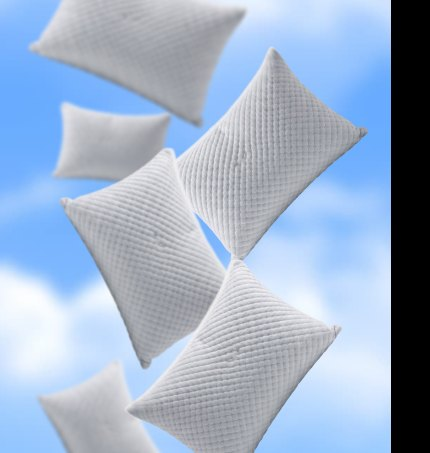
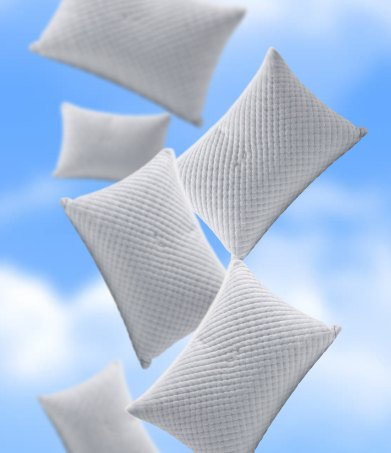
Add files via upload

diff --git a/src/components/Blocks.jsx b/src/components/Blocks.jsx
@@ -38,7 +38,7 @@ export function SummerDealsSlider() {
   return (
     <section style={{ position: 'relative', overflow: 'hidden', paddingBottom: 34, marginTop: -1 }}>
       <style>{`.fns-scroll{scrollbar-width:none;-ms-overflow-style:none}.fns-scroll::-webkit-scrollbar{display:none}`}</style>
-      <div aria-hidden="true" style={{ position: 'absolute', top: 0, left: 0, right: 0, height: bgH, backgroundImage: `url(${IMG.heroBg})`, backgroundSize: 'cover', backgroundPosition: 'top center' }} />
+      <div aria-hidden="true" style={{ position: 'absolute', top: 0, left: 0, right: 0, height: bgH, backgroundImage: `url(${IMG.sliderBg})`, backgroundSize: 'cover', backgroundPosition: 'center' }} />
       <div style={{ position: 'relative', maxWidth: 1050, margin: '0 auto', padding: isMobile ? '34px 20px 0' : '48px 40px 0' }}>
         <h2 style={{ fontFamily: FONT_DISPLAY, fontSize: isMobile ? 28 : 34, color: c.navy }}>Summer <span style={{ fontFamily: FONT_SUB, fontWeight: 400 }}>Deals</span></h2>
         <div className="fns-scroll" style={{ display: 'flex', gap: 16, overflowX: 'auto', padding: '24px 4px 8px', scrollSnapType: 'x mandatory' }}>
@@ -46,7 +46,7 @@ export function SummerDealsSlider() {
             const p = getPrice(b, isCA);
             const cm = isCA ? b.compareAt.cad : b.compareAt.usd;
             return (
-              <a key={b.id} href="/product/signature-cold-pillow" style={{ textDecoration: 'none', scrollSnapAlign: 'center', flex: isMobile ? '0 0 78%' : '0 0 300px', borderRadius: 22, overflow: 'hidden', boxShadow: '0 14px 30px rgba(32,27,93,.18)', background: '#fff' }}>
+              <a key={b.id} href="/product/signature-cold-pillow" style={{ textDecoration: 'none', scrollSnapAlign: 'center', flex: isMobile ? '0 0 78%' : '0 0 300px', borderRadius: 22, overflow: 'hidden', boxShadow: '0 6px 14px rgba(32,27,93,.22)', background: '#fff' }}>
                 <div style={{ position: 'relative' }}>
                   <ProductImageBlock src={b.image} alt={b.label} height={isMobile ? 170 : 190} radius={0} />
                   <span style={{ position: 'absolute', top: 12, left: 12, background: c.amber, color: c.navy, fontWeight: 700, fontSize: 12, borderRadius: 999, padding: '6px 14px' }}>{b.short.toLowerCase()}</span>

diff --git a/src/pages/Home.jsx b/src/pages/Home.jsx
@@ -21,7 +21,7 @@ export default function Home({ onCartOpen }) {
   return (
     <div>
       {/* ============ HERO ============ */}
-      <section style={{ backgroundImage: `url(${IMG.heroBg})`, backgroundSize: 'cover', backgroundPosition: 'center top', padding: isMobile ? '46px 22px 0' : '70px 40px 0', textAlign: 'center', position: 'relative', overflow: 'hidden' }}>
+      <section style={{ backgroundImage: `url(${IMG.heroBg})`, backgroundSize: 'cover', backgroundPosition: 'center', minHeight: isMobile ? 560 : 640, display: 'flex', flexDirection: 'column', justifyContent: 'center', padding: isMobile ? '46px 22px 40px' : '70px 40px 60px', textAlign: 'center', position: 'relative', overflow: 'hidden' }}>
         <img src={IMG.icon1p1} alt="1 plus 1 free" style={{ position: 'absolute', top: isMobile ? 18 : 30, right: isMobile ? 18 : '8%', height: isMobile ? 74 : 104, filter: 'drop-shadow(0 8px 20px rgba(32,27,93,.25))' }} />
         <div style={{ position: 'relative', maxWidth: 720, margin: '0 auto', paddingTop: isMobile ? 70 : 60 }}>
           <h1 style={{ fontFamily: FONT_DISPLAY, fontSize: isMobile ? 36 : 54, color: c.navy, margin: '0 0 10px', lineHeight: 1.1, display: 'flex', alignItems: 'center', justifyContent: 'center', gap: isMobile ? 10 : 16, flexWrap: 'wrap' }}>
@@ -32,7 +32,6 @@ export default function Home({ onCartOpen }) {
           </p>
           <a href="#offer" style={{ ...BTN, fontSize: 14, padding: '15px 38px' }}>Shop now</a>
         </div>
-        <div style={{ height: isMobile ? 46 : 70 }} />
       </section>
 
       {/* ============ PRODUCT CARD + OFFER ============ */}

diff --git a/src/data.js b/src/data.js
@@ -11,6 +11,7 @@ export const IMG = {
   falling: "/images/pillow-falling.webp",
   bed: "/images/pillow-bed.webp",
   heroBg: "/images/hero-bg.jpg",
+  sliderBg: "/images/slider-bg.jpg",
   cloudsUp: "/images/clouds-up.png",
   cloudsDown: "/images/clouds-down.png",
   cloudWhite: "/images/icon-cloud-white.png",